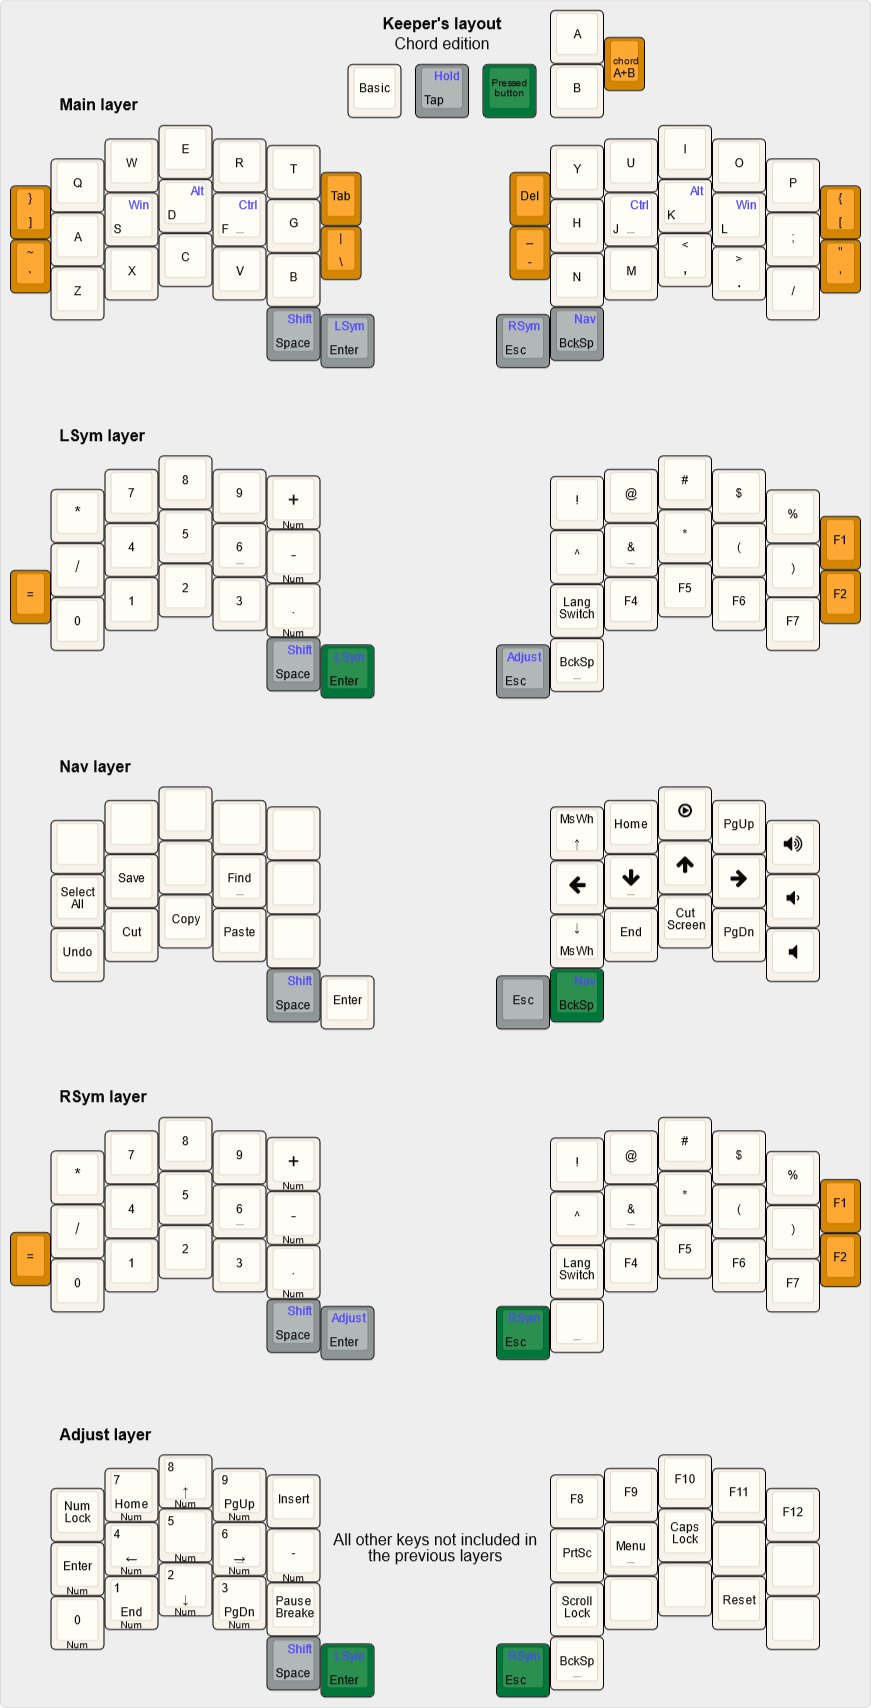
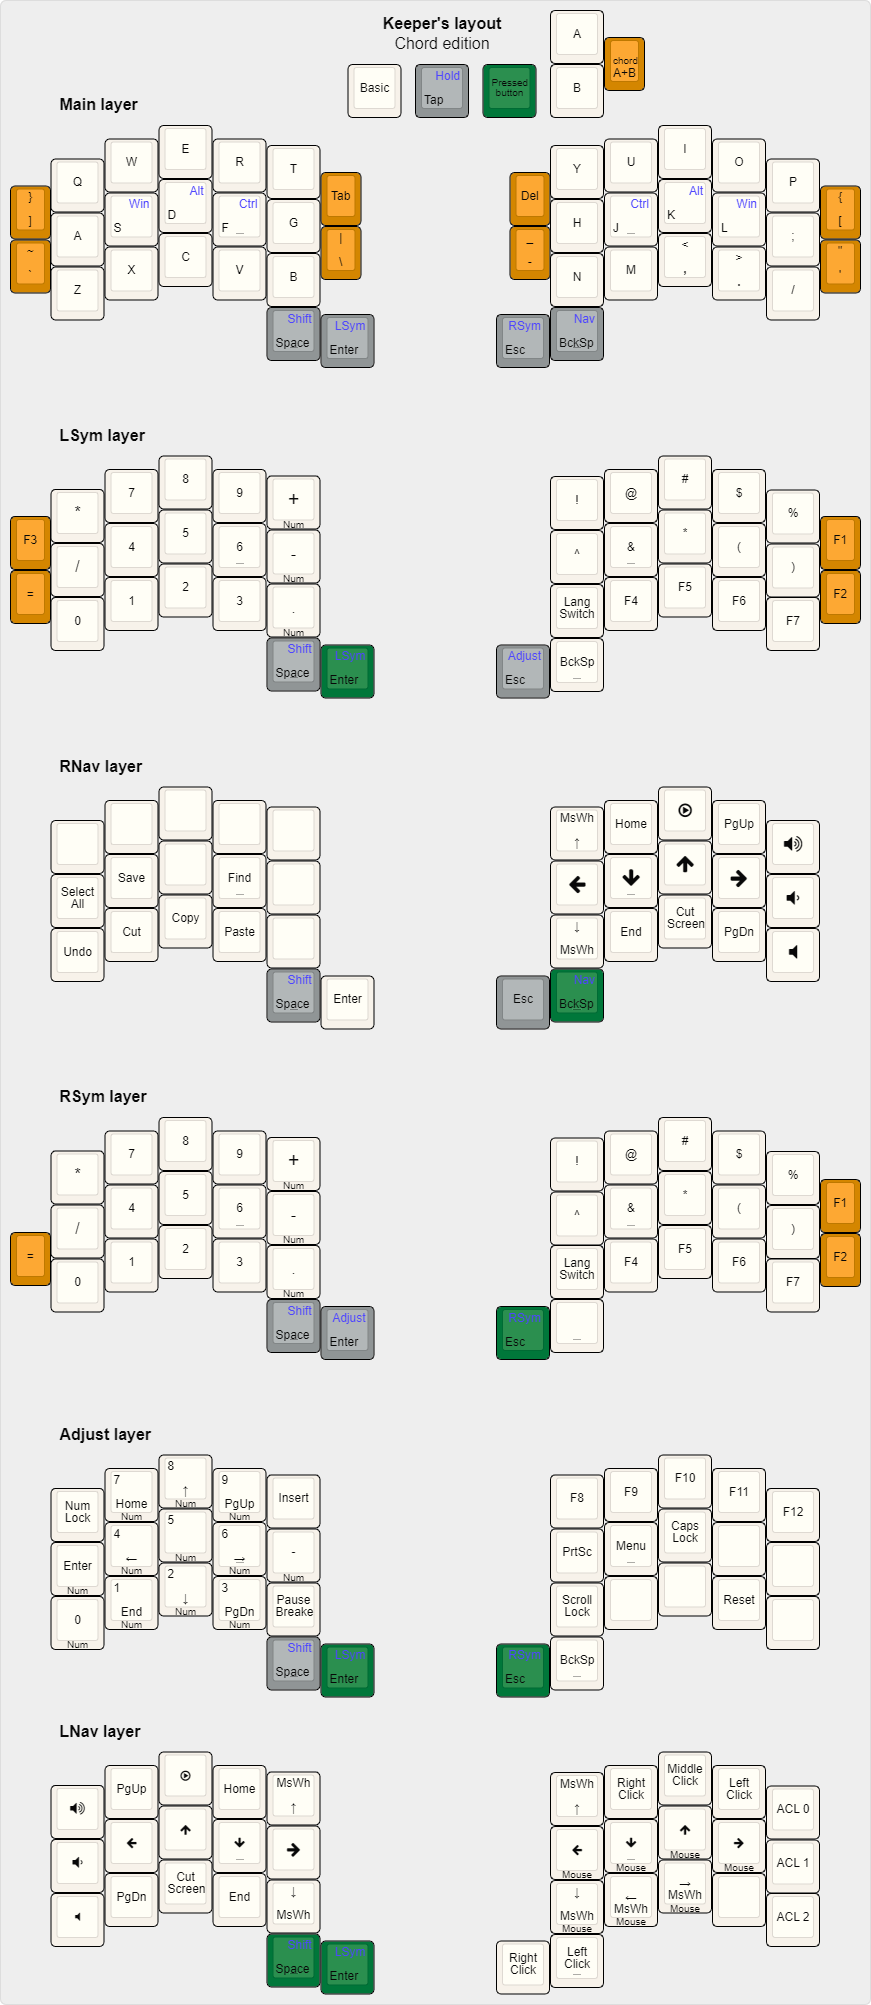
update layout

diff --git a/qmk/keymap.c b/qmk/keymap.c
@@ -42,7 +42,7 @@ bool process_record_user(uint16_t keycode, keyrecord_t *record) {
 // Main
 #define KC_LG_S LGUI_T(KC_S)
 #define KC_LC_F LCTL_T(KC_F)
-#define KC_LA_D  LALT_T(KC_D)
+#define KC_LA_D LALT_T(KC_D)
 
 #define KC_LG_L LGUI_T(KC_L)
 #define KC_LC_J LCTL_T(KC_J)
@@ -60,19 +60,20 @@ bool process_record_user(uint16_t keycode, keyrecord_t *record) {
 #define KC_L4_ESC LT(4, KC_ESC)
 // Adjust
 
-
 // Combos
-const uint16_t PROGMEM test_combo1[]  = {KC_T, KC_G, COMBO_END};
-const uint16_t PROGMEM test_combo2[]  = {KC_Y, KC_H, COMBO_END};
-const uint16_t PROGMEM test_combo3[]  = {KC_G, KC_B, COMBO_END};
-const uint16_t PROGMEM test_combo4[]  = {KC_H, KC_N, COMBO_END};
-const uint16_t PROGMEM test_combo5[]  = {KC_A, KC_Z, COMBO_END};
-const uint16_t PROGMEM test_combo6[]  = {KC_SCLN, KC_SLSH, COMBO_END};
-const uint16_t PROGMEM test_combo7[]  = {KC_Q, KC_A, COMBO_END};
-const uint16_t PROGMEM test_combo8[]  = {KC_P, KC_SCLN, COMBO_END};
-const uint16_t PROGMEM test_combo9[]  = {KC_PSLS, KC_0, COMBO_END};
+const uint16_t PROGMEM test_combo1[] = {KC_T, KC_G, COMBO_END};
+const uint16_t PROGMEM test_combo2[] = {KC_Y, KC_H, COMBO_END};
+const uint16_t PROGMEM test_combo3[] = {KC_G, KC_B, COMBO_END};
+const uint16_t PROGMEM test_combo4[] = {KC_H, KC_N, COMBO_END};
+const uint16_t PROGMEM test_combo5[] = {KC_A, KC_Z, COMBO_END};
+const uint16_t PROGMEM test_combo6[] = {KC_SCLN, KC_SLSH, COMBO_END};
+const uint16_t PROGMEM test_combo7[] = {KC_Q, KC_A, COMBO_END};
+const uint16_t PROGMEM test_combo8[] = {KC_P, KC_SCLN, COMBO_END};
+const uint16_t PROGMEM test_combo9[] = {KC_PSLS, KC_0, COMBO_END};
 const uint16_t PROGMEM test_combo10[] = {KC_PERC, KC_RPRN, COMBO_END};
 const uint16_t PROGMEM test_combo11[] = {KC_RPRN, KC_F7, COMBO_END};
+const uint16_t PROGMEM test_combo12[] = {KC_LS_SPC, KC_L1_ENT, COMBO_END};
+const uint16_t PROGMEM test_combo13[] = {KC_PAST, KC_PSLS, COMBO_END};
 combo_t key_combos[COMBO_COUNT] = {
     COMBO(test_combo1, KC_TAB),
     COMBO(test_combo2, KC_DEL),
@@ -84,9 +85,9 @@ combo_t key_combos[COMBO_COUNT] = {
     COMBO(test_combo8, KC_LBRC),
     COMBO(test_combo9, KC_EQL),
     COMBO(test_combo10, KC_F1),
-    COMBO(test_combo11, KC_F2)
-};
-
+    COMBO(test_combo11, KC_F2),
+    COMBO(test_combo12, MO(5)),
+    COMBO(test_combo13, KC_F3)};
 
 const uint16_t PROGMEM keymaps[][MATRIX_ROWS][MATRIX_COLS] = {
 [0] = LAYOUT( // Main
@@ -113,7 +114,7 @@ const uint16_t PROGMEM keymaps[][MATRIX_ROWS][MATRIX_COLS] = {
                                            // └──────────┴──────────┘             └──────────┴──────────┘
 ),
 
-[2] = LAYOUT( // Nav
+[2] = LAYOUT( // LNav
 //┌──────────┬──────────┬──────────┬──────────┬──────────┐                                   ┌──────────┬──────────┬──────────┬──────────┬──────────┐ 
       KC_NO  ,  KC_NO   ,  KC_NO   ,  KC_NO   ,  KC_NO   ,                                     KC_WH_U  ,  KC_HOME ,  KC_MPLY ,  KC_PGUP , KC_VOLU  , 
 //├──────────┼──────────┼──────────┼──────────┼──────────┤                                   ├──────────┼──────────┼──────────┼──────────┼──────────┤ 
@@ -146,6 +147,17 @@ const uint16_t PROGMEM keymaps[][MATRIX_ROWS][MATRIX_COLS] = {
     KC_P0    ,   KC_P1  ,   KC_P2  ,   KC_P3  , KC_PAUS  ,                                      KC_SCRL ,  KC_NO   ,  KC_NO   ,  RESET   ,  KC_NO   , 
 //└──────────┴──────────┴──────────┴──────────┼──────────┼──────────┐             ┌──────────┼──────────┼──────────┴──────────┴──────────┴──────────┘  
                                                 KC_LS_SPC,  _______ ,               _______  , KC_BSPC    
+                                           // └──────────┴──────────┘             └──────────┴──────────┘
+),
+[5] = LAYOUT( // RNav
+//┌──────────┬──────────┬──────────┬──────────┬──────────┐                                   ┌──────────┬──────────┬──────────┬──────────┬──────────┐ 
+     KC_VOLU ,  KC_PGUP ,  KC_MPLY , KC_HOME  ,  KC_WH_U ,                                     KC_WH_U  , KC_BTN1  , KC_BTN3  , KC_BTN2  , KC_ACL0  ,  
+//├──────────┼──────────┼──────────┼──────────┼──────────┤                                   ├──────────┼──────────┼──────────┼──────────┼──────────┤ 
+     KC_VOLD ,  KC_LEFT ,   KC_UP  , KC_DOWN  ,  KC_RGHT ,                                     KC_MS_L  , KC_MS_D  , KC_MS_U  , KC_MS_R  , KC_ACL1  ,  
+//├──────────┼──────────┼──────────┼──────────┼──────────┤                                   ├──────────┼──────────┼──────────┼──────────┼──────────┤ 
+     KC_MUTE ,  KC_PGDN ,  SCRCUT  ,  KC_END  ,  KC_WH_D ,                                     KC_WH_D  , KC_WH_L  , KC_WH_R  ,  KC_NO   , KC_ACL2  , 
+//└──────────┴──────────┴──────────┴──────────┼──────────┼──────────┐             ┌──────────┼──────────┼──────────┴──────────┴──────────┴──────────┘ 
+                                                 _______ ,  _______  ,               KC_BTN1  , KC_BTN2 
                                            // └──────────┴──────────┘             └──────────┴──────────┘
 )
 };

diff --git a/qmk/config.h b/qmk/config.h
@@ -21,5 +21,5 @@ along with this program.  If not, see <http://www.gnu.org/licenses/>.
 #define TAPPING_TERM 180
 #define PERMISSIVE_HOLD
 #define IGNORE_MOD_TAP_INTERRUPT
-#define COMBO_COUNT 11
+#define COMBO_COUNT 13
 

diff --git a/README.md b/README.md
@@ -1,4 +1,6 @@
-Keeper's layout are 34-key variation of the Watchman's layout. Due to the use of chords, it was possible to adapt the layout for 34-key keyboards with minimal changes.
+Keeper's layout are 34-key variation of the Watchman's layout. When using chords, it was possible to adapt Watchman's layout for 34-key keyboards with minimal changes.
+
+The layout is not a universal solution, it is a source of inspiration
 
 ![Main layer](kle/keeper's-layout-chord-edition.png)
 
